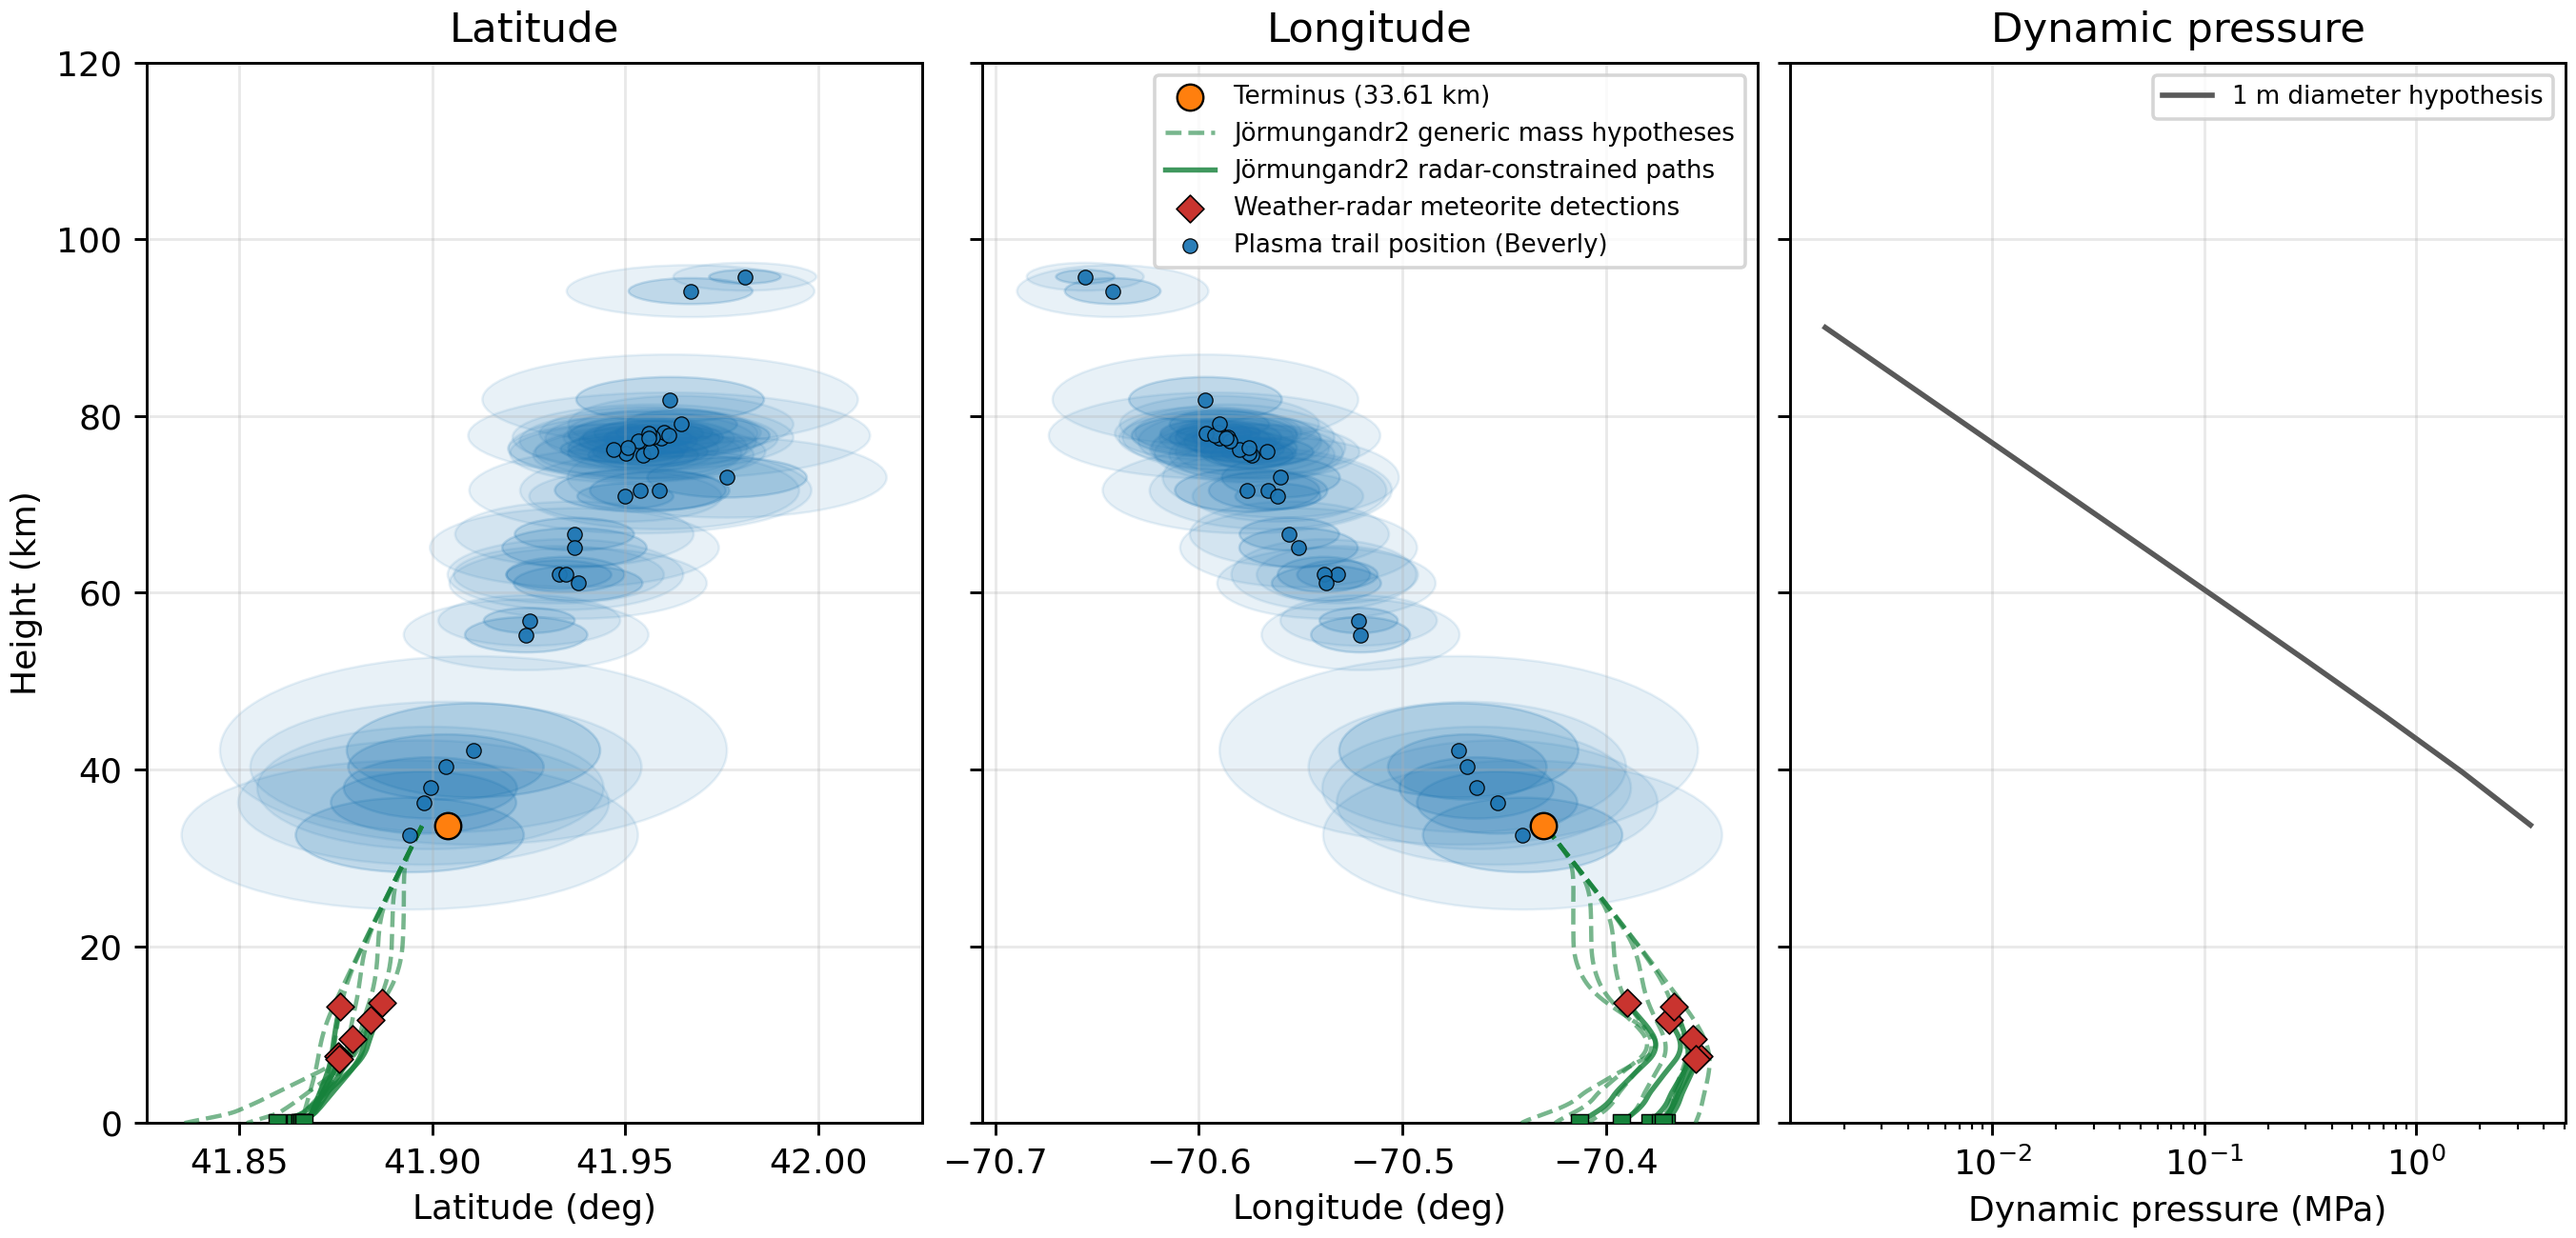
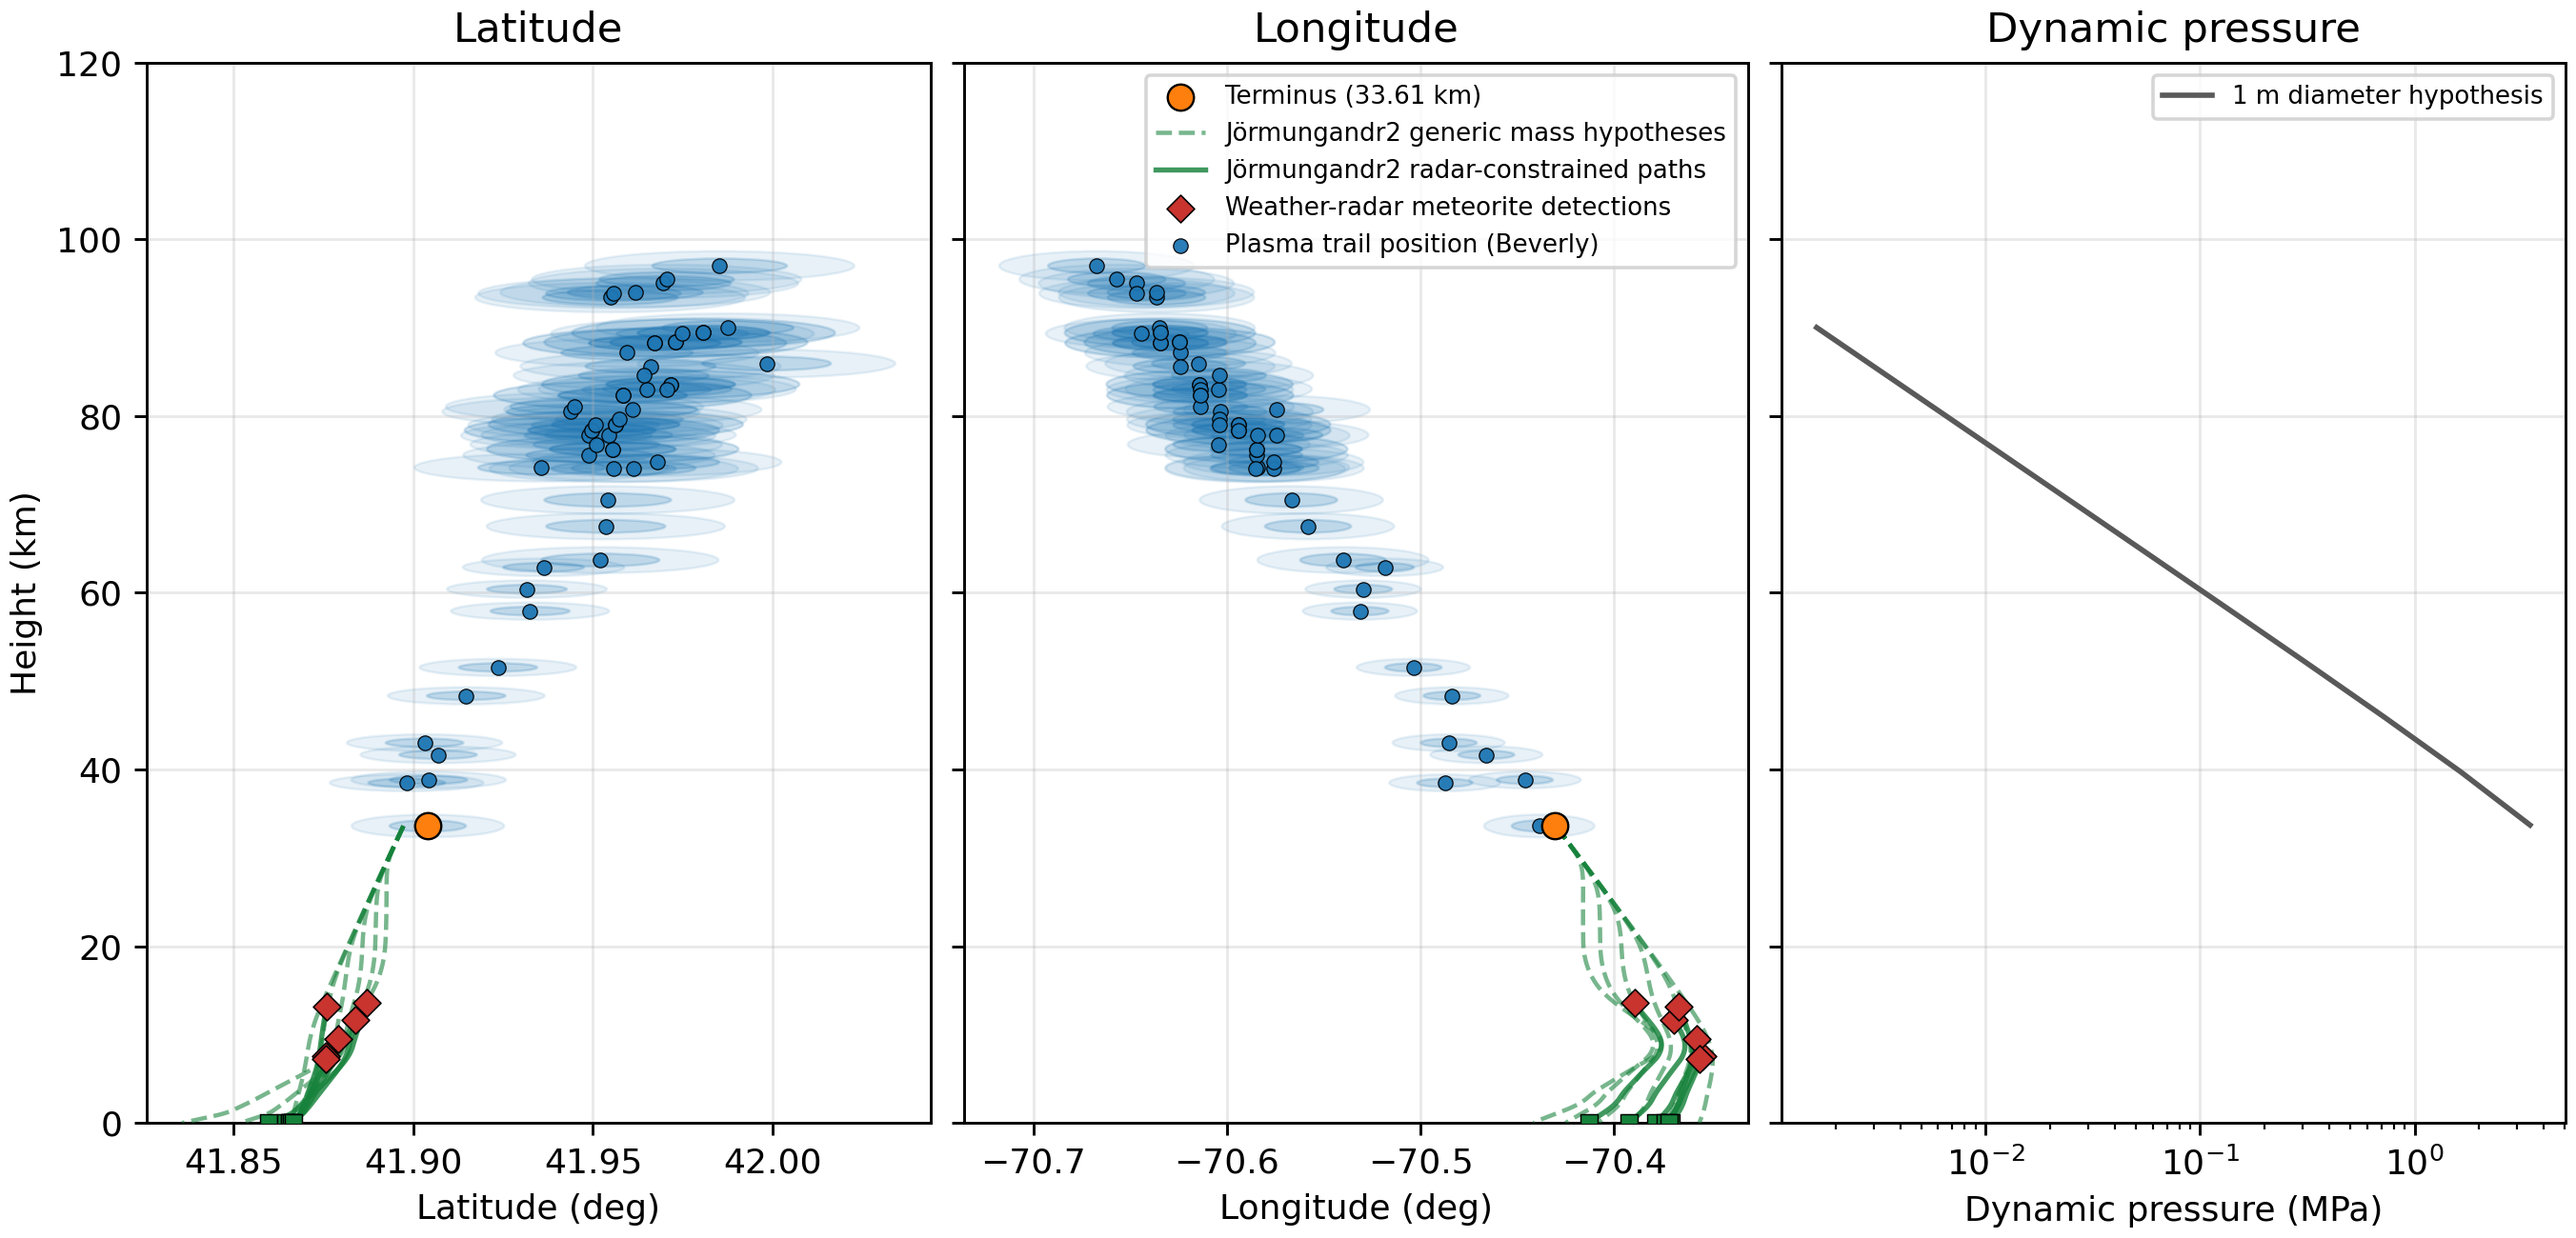
Use constrained sparse blobs in Figure 5

diff --git a/reports/plot_fragment_size_hypotheses.py b/reports/plot_fragment_size_hypotheses.py
@@ -32,8 +32,8 @@ from fit_combined_head_trail_eci import gcrs_to_ecef  # noqa: E402
 OUT_FIG = Path("reports/figures/fragment_size_hypotheses.png")
 OUT_SUMMARY = Path("reports/fragment_size_hypotheses_summary.json")
 DEFAULT_TRAJECTORY = Path("products/ballistic_head_trail_correlated_fit_v0p2p9_rinterp4_zp16_3incoh/ballistic_head_trail_correlated_fit.json")
-DEFAULT_TRAIL_POSITION_JSON = [
-    Path("products/specular_trail_positions/specular_trail_position_summary.json"),
+DEFAULT_TRAIL_POSITION_H5 = [
+    Path("data/interactive_sparse_component_imager/beverly_trail_positions.h5"),
 ]
 DEFAULT_DARK_FLIGHT_KMZ = Path("data/marc_fries/cape_cod_bay_dark_flight_20260626.kmz")
 DEFAULT_DARK_FLIGHT_JSON = Path("data/marc_fries/cape_cod_bay_dark_flight_20260625.json")
@@ -234,43 +234,6 @@ def load_components_h5(paths: list[Path], max_height_km: float) -> list[dict]:
                         "blob_axis_length_cross_m": float(h["blob_axis_length_cross_m"][idx]) if "blob_axis_length_cross_m" in h else np.nan,
                     }
                 )
-    return rows
-
-
-def load_components_json(
-    paths: list[Path],
-    max_height_km: float,
-    station: str = "beverly",
-    min_height_km: float = 30.0,
-) -> list[dict]:
-    """Load tracked trail-plasma positions from the AoD solution JSON."""
-    rows = []
-    for path in paths:
-        if not path.exists():
-            raise FileNotFoundError(f"Trail-position JSON does not exist: {path}")
-        payload = json.loads(path.read_text(encoding="utf-8"))
-        for row in payload.get("positions", []):
-            alt_m = float(row.get("alt_m", np.nan))
-            alt_km = alt_m / 1000.0
-            if str(row.get("station", "")).lower() != station.lower():
-                continue
-            if not np.isfinite(alt_km) or alt_km < min_height_km or alt_km > max_height_km:
-                continue
-            # Reject the known AoD-alias solution far from the trajectory prior.
-            if float(row.get("aod_prior_offset_deg", 0.0)) > 10.0:
-                continue
-            sigma_enu_m = np.asarray(row.get("uncertainty", {}).get("position_sigma_enu_m", [np.nan] * 3), dtype=float)
-            rows.append(
-                {
-                    "station": str(row.get("station", "")),
-                    "lat_deg": float(row["lat_deg"]),
-                    "lon_deg": float(row["lon_deg"]),
-                    "alt_m": alt_m,
-                    "east_sigma_m": float(sigma_enu_m[0]),
-                    "north_sigma_m": float(sigma_enu_m[1]),
-                    "up_sigma_m": float(sigma_enu_m[2]),
-                }
-            )
     return rows
 
 
@@ -619,11 +582,14 @@ def make_plot(
             label = "Plasma trail position (Beverly)" if station == "beverly" else f"Plasma trail position ({station})"
             for row in rows:
                 z_km = float(row["alt_m"]) / 1000.0
-                height_km = 2.0 * row.get("up_sigma_m", np.nan) / 1000.0
-                lat_width = 2.0 * row.get("north_sigma_m", np.nan) / 111000.0
-                lon_width = 2.0 * row.get("east_sigma_m", np.nan) / (
-                    111000.0 * max(np.cos(np.deg2rad(float(row["lat_deg"]))), 0.1)
+                alt_sigma_km = row.get("centroid_alt_sigma_m", np.nan) / 1000.0
+                horiz_km = max(
+                    row.get("blob_axis_length_along_m", np.nan) / 1000.0,
+                    row.get("blob_axis_length_cross_m", np.nan) / 1000.0,
                 )
+                lat_width = horiz_km / 111.0
+                lon_width = horiz_km / (111.0 * max(np.cos(np.deg2rad(float(row["lat_deg"]))), 0.1))
+                height_km = max(2.0 * alt_sigma_km, row.get("blob_axis_length_cross_m", np.nan) / 1000.0)
                 add_plasma_blob(ax_lat, float(row["lat_deg"]), z_km, lat_width, height_km, color, zorder=1)
                 add_plasma_blob(ax_lon, float(row["lon_deg"]), z_km, lon_width, height_km, color, zorder=1)
             ax_lat.scatter(lat, alt, s=18, color=color, edgecolor="black", linewidth=0.35, alpha=0.95, zorder=5)
@@ -651,7 +617,7 @@ def make_plot(
 def main() -> None:
     p = argparse.ArgumentParser(description=__doc__)
     p.add_argument("--trajectory", type=Path, default=DEFAULT_TRAJECTORY)
-    p.add_argument("--trail-positions-json", nargs="+", type=Path, default=DEFAULT_TRAIL_POSITION_JSON)
+    p.add_argument("--trail-positions-h5", nargs="+", type=Path, default=DEFAULT_TRAIL_POSITION_H5)
     p.add_argument("--marker-time", default="2026-05-30T18:06:23Z")
     p.add_argument("--terminus-altitude-km", type=float, default=33.61)
     p.add_argument("--right-panel-min-altitude-km", type=float, default=18.0)
@@ -680,7 +646,7 @@ def main() -> None:
         float(args.dt_s),
         float(args.max_step_s),
     )
-    components = load_components_json([Path(v) for v in args.trail_positions_json], max_height_km=120.0)
+    components = load_components_h5([Path(v) for v in args.trail_positions_h5], max_height_km=120.0)
     dark_flight_paths = load_dark_flight_kmz(args.dark_flight_kmz)
     dark_flight_detections = load_dark_flight_radar_detections(args.dark_flight_json)
     terminus_marker = terminus_marker_summary(fit, float(args.terminus_altitude_km))
@@ -700,7 +666,7 @@ def main() -> None:
     payload = {
         "source_program": "reports/plot_fragment_size_hypotheses.py",
         "trajectory": str(args.trajectory),
-        "trail_positions_json": [str(v) for v in args.trail_positions_json],
+        "trail_positions_h5": [str(v) for v in args.trail_positions_h5],
         "figure": str(args.out),
         "launch": launch,
         "marker_time_unix": float(marker_time),
